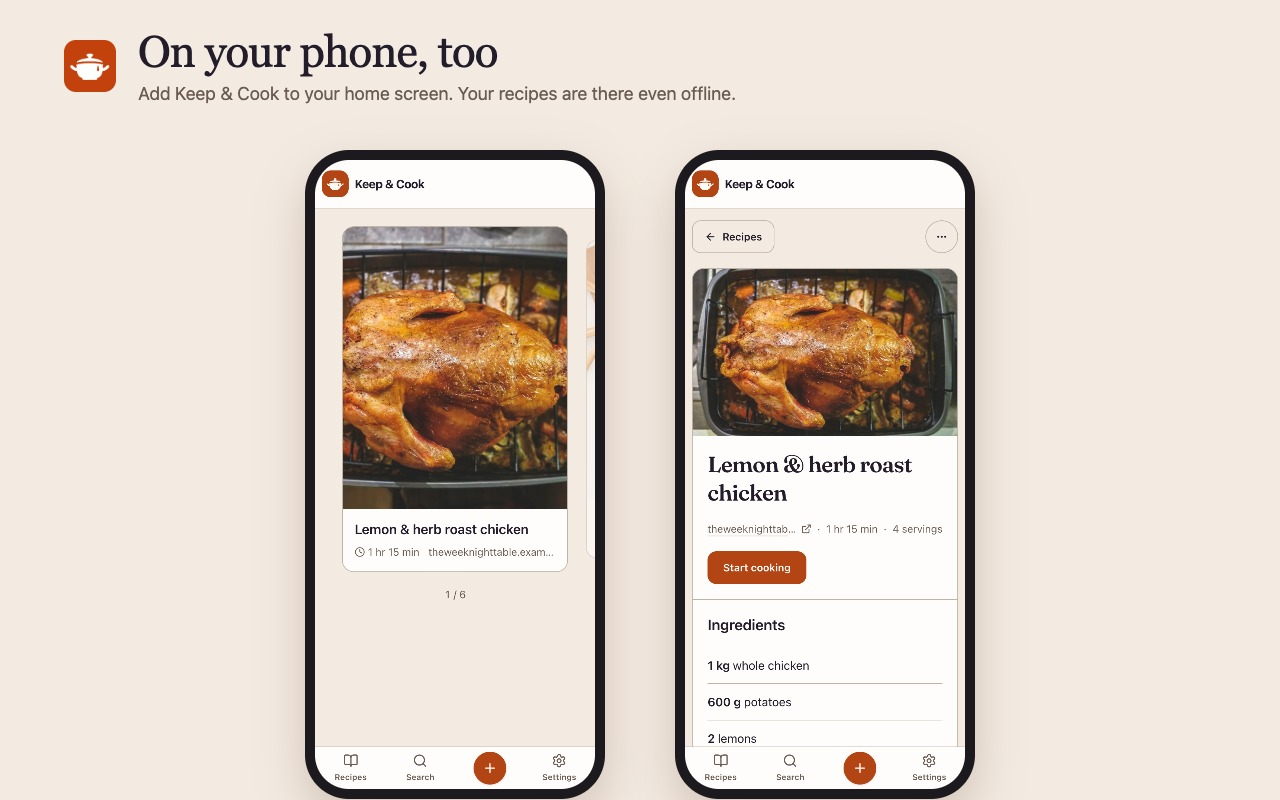
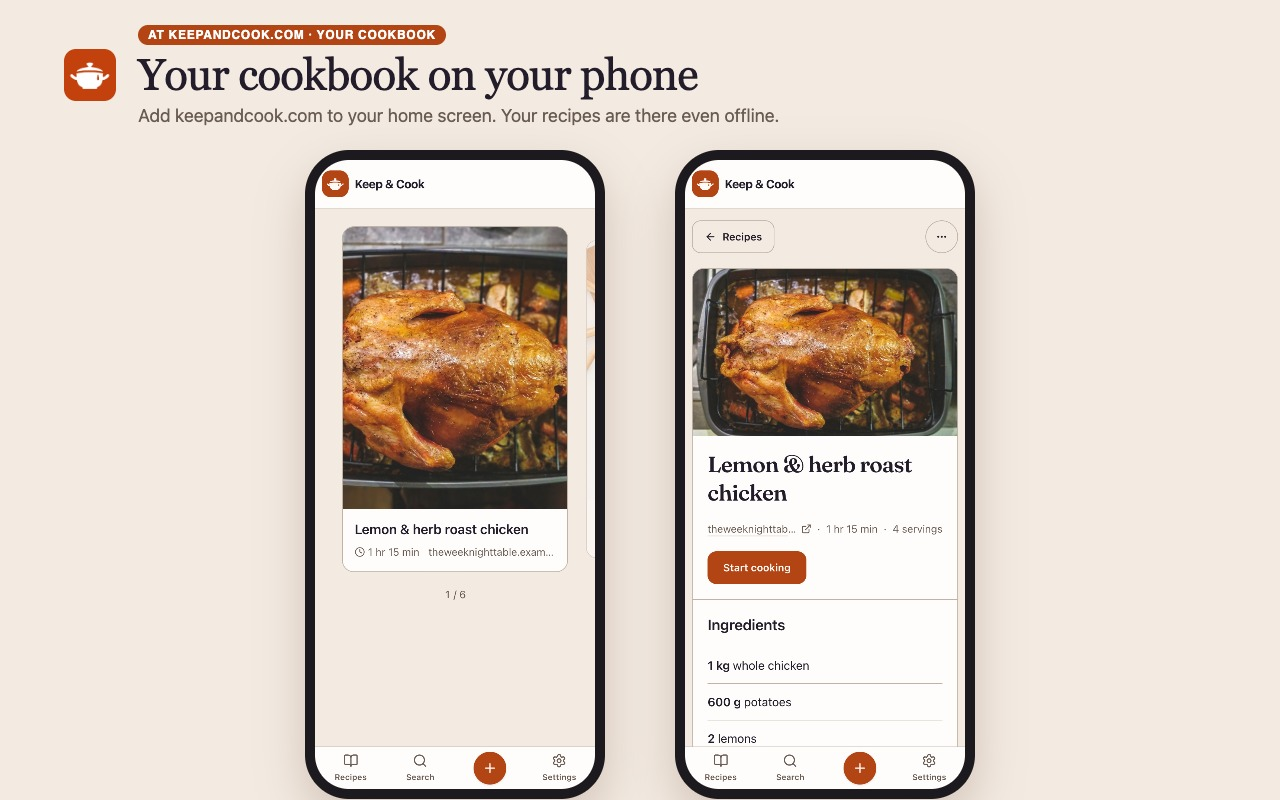
Listing: spell out what the extension does and what keepandcook.com does
Description splits into the extension (in Chrome, no account) and the
cookbook (keepandcook.com, free account, phone). Screenshots carry a label
for where each scene happens; the Save hint names keepandcook.com.

Changed region(s): [[0.0312, 0.0312, 0.5938, 0.1562]]

diff --git a/extension/sidepanel.html b/extension/sidepanel.html
@@ -28,7 +28,7 @@
           <p id="description" class="description"></p>
           <p id="partial-warning" class="notice" hidden>This recipe may be incomplete. Review it before saving.</p>
           <div class="actions"><button id="save" class="primary">Save to my recipes</button><button id="cook" class="secondary">Start cooking <span aria-hidden="true">→</span></button></div>
-          <p class="save-hint">Free account · your recipes on any device</p>
+          <p class="save-hint">Saves to your free cookbook at keepandcook.com</p>
           <div id="save-feedback" class="save-feedback" role="status" aria-live="polite" hidden></div>
           <section class="recipe-section"><div class="section-heading"><h2>Ingredients</h2><span id="ingredient-count" class="section-count"></span></div><ul id="ingredients" class="ingredient-list"></ul></section>
           <section id="method" class="recipe-section"><h2>Method</h2><ol id="steps" class="step-list"></ol></section>

diff --git a/docs/chrome-web-store.md b/docs/chrome-web-store.md
@@ -10,7 +10,7 @@
 
 ## Store listing
 
-**Позиционирование.** Расширение — вход в библиотеку Keep & Cook, а не самостоятельная «читалка». Главное обещание: «сохрани рецепт с любого сайта в свою кулинарную книгу». Чистый вид и режим готовки — то, что пользователь получает сразу, без аккаунта. В панели главная кнопка «Save to my recipes», под ней подпись «Free account · your recipes on any device». Будущий Pro в листинге не обещаем: он появится внутри библиотеки, куда листинг и ведёт.
+**Позиционирование.** Расширение — вход в библиотеку Keep & Cook, а не самостоятельная «читалка». Главное обещание: «сохрани рецепт с любого сайта в свою кулинарную книгу». Чистый вид и режим готовки — то, что пользователь получает сразу, без аккаунта. В панели главная кнопка «Save to my recipes», под ней подпись «Saves to your free cookbook at keepandcook.com». Будущий Pro в листинге не обещаем: он появится внутри библиотеки, куда листинг и ведёт.
 
 **Name** (из manifest): Keep & Cook — Recipe Saver & Cookbook
 
@@ -25,26 +25,36 @@
 ```
 Save recipes from any website to your own cookbook.
 
-Found a recipe you want to keep? Click the Keep & Cook icon, then "Save to my recipes". It goes into your free Keep & Cook cookbook, together with every other recipe you have saved, with a link back to the original.
+Keep & Cook has two parts that work together:
+1. This Chrome extension: it works on the recipe page you are visiting.
+2. Your cookbook at keepandcook.com: a free web app where your saved recipes live. It opens in any browser and installs on your phone like an app.
 
-Your cookbook
-• All your recipes in one place, with photos, ingredients and steps.
-• Search them, and sort them into collections like Breakfast or Dinner.
-• Edit any recipe, or add your own family recipes by hand.
-• On your phone too: add Keep & Cook to your home screen. Your recipes are there even offline.
+HOW IT WORKS
+1. On a recipe page, click the Keep & Cook icon. The recipe opens in a side panel.
+2. Click "Save to my recipes". keepandcook.com opens with the recipe ready. Sign in or create a free account, check it and save.
+3. Open your cookbook at keepandcook.com any time, on your computer or your phone.
 
-Right on the recipe page
+IN CHROME: THE EXTENSION (no account needed)
 • A clean side panel with just the ingredients and steps: no life story, no pop-ups, no ads in the way.
-• Cooking mode: large text, one step at a time, step timers, and the screen stays on.
-• Download the recipe as a text file. Reading, cooking and downloading need no account.
+• Tick off ingredients as you gather them.
+• Cooking mode over the page: large text, one step at a time, step timers, and the screen stays on.
+• Download the recipe as a text file.
+• "Save to my recipes" sends it to your cookbook.
 
-Privacy first
-The extension reads a page only when you click its icon on that page. It has no access to the sites you browse otherwise. No analytics, no tracking, no ads.
+AT KEEPANDCOOK.COM: YOUR COOKBOOK (free account)
+• All your saved recipes in one place, with photos, ingredients, steps and a link to the original.
+• Search, and sort recipes into collections like Breakfast or Dinner.
+• Edit any recipe, add family recipes by hand, or paste a recipe link.
+• Cooking mode for every saved recipe.
+• On your phone: add keepandcook.com to your home screen. Your recipes are there even offline.
+
+PRIVACY
+The extension reads a page only when you click its icon on that page. It has no access to the sites you browse otherwise. No analytics, no tracking, no ads. Your cookbook is private to your account.
 
 Works on most recipe sites that publish structured recipe data. If a page has none, Keep & Cook reads that public page for you.
 ```
 
-**Graphics:** `docs/store/`, в этом порядке:
+**Graphics:** `docs/store/`, в этом порядке. Над заголовком каждого кадра метка, где это происходит: «In Chrome · extension» или «At keepandcook.com · your cookbook».
 1. `1-save.jpg`: сайт с рецептом и панель, акцент на «Save to my recipes».
 2. `2-library.jpg`: библиотека на компьютере, «Recipe saved to your library».
 3. `3-phone.jpg`: библиотека и рецепт на телефоне (PWA).

diff --git a/extension/README.md b/extension/README.md
@@ -28,7 +28,7 @@ The extension talks to production by default. To point it at `npm run dev`, with
 
 ## Workflow
 
-- The side panel header contains only the logo. The recipe card has **Save to my recipes** (primary, with a "Free account" hint) and **Start cooking** actions, with a small **Download** link below the method. `Read this page` appears in the empty and error states. Save opens the website for review and closes the panel; it does not claim cloud saving is complete.
+- The side panel header contains only the logo. The recipe card has **Save to my recipes** (primary, with a hint that it saves to the free cookbook at keepandcook.com) and **Start cooking** actions, with a small **Download** link below the method. `Read this page` appears in the empty and error states. Save opens the website for review and closes the panel; it does not claim cloud saving is complete.
 - Read ingredients and instructions alongside the original website. Check off ingredients.
 - **Start cooking** opens a dialog over the entire source webpage, outside the side panel. It does not use browser fullscreen. If injection fails, a standalone extension tab opens with the same interface and actions. The panel closes after successful injection; **Close** or Escape restores the source webpage.
 - Navigation stays at the bottom of the viewport. Large instruction text fills the remaining space. Long steps are split into parts sized to the window, with **Continue step** before **Next step**. Arrow keys navigate. Ingredients open in a separate drawer. Screen wake lock is best effort.
